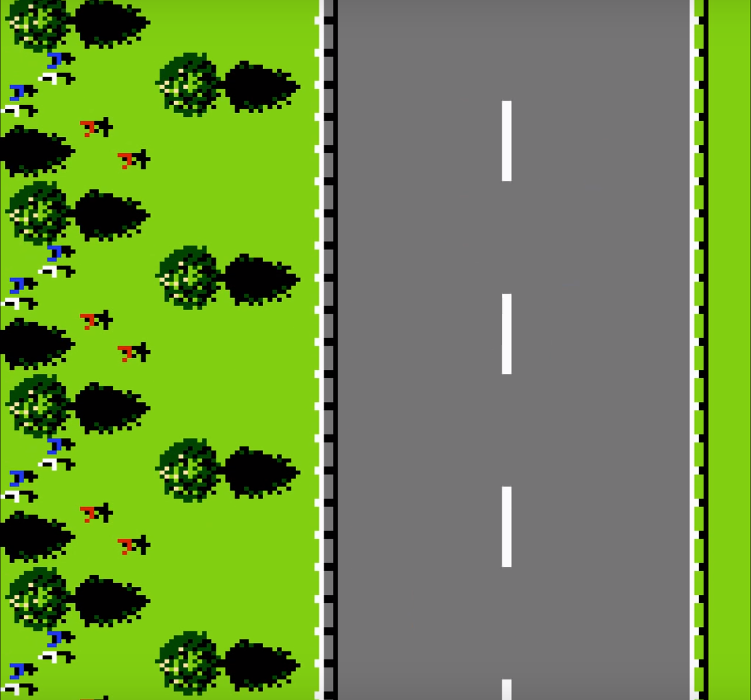
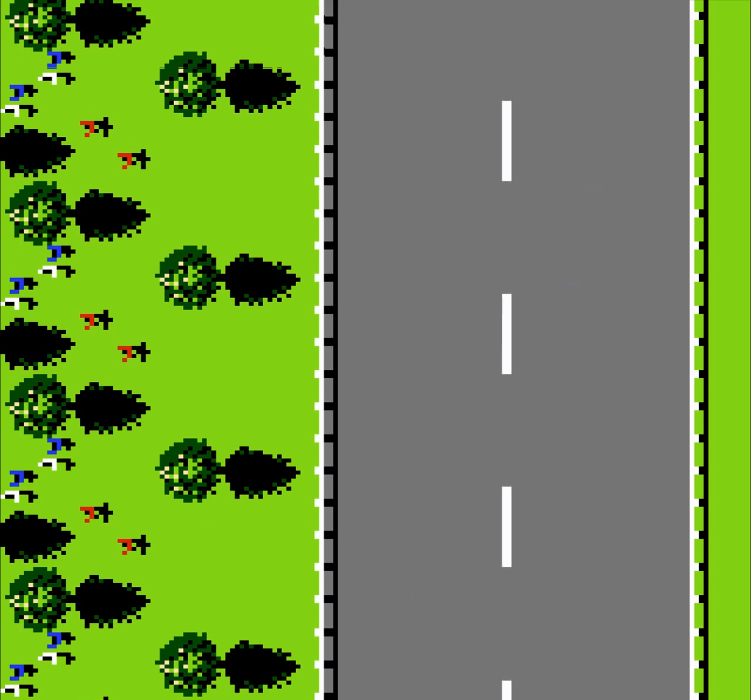
Creacion de hilo y de la ventana del juego

diff --git a/ProyectoFinalApo2/src/interfaz/PanelCarreteraJuego.java b/ProyectoFinalApo2/src/interfaz/PanelCarreteraJuego.java
@@ -15,34 +15,27 @@ public class PanelCarreteraJuego extends JPanel implements KeyListener{
 	private ImageIcon imagenCarretera1;
 	private ImageIcon imagenCarretera2;
 	private ImageIcon imagenAutoJugador;
-	Carretera xCARRETERAX;
-	RoadFigther xMODELO;
-	VentanaPrincipal XPRINCIPAL;
-	VentanaSeleccion XSELECCION;
 	
 	public PanelCarreteraJuego(VentanaJuego v) {
 		ventanaJuego=v;
-		XSELECCION=ventanaJuego.darVentanaSeleccion();
-		System.out.println(ventanaJuego.darVentanaSeleccion());
-		System.out.println(ventanaJuego.darVentanaSeleccion());
-		XPRINCIPAL=ventanaJuego.darVentanaSeleccion().darPrincipal();
-	
-		xMODELO=ventanaJuego.darVentanaSeleccion().darPrincipal().darModeloJuego();
-
-		xCARRETERAX = ventanaJuego.darVentanaSeleccion().darPrincipal().darModeloJuego().darCarreteraSeleccionada();
 		imagenCarretera1 = new ImageIcon(ventanaJuego.darVentanaSeleccion().darPrincipal().darModeloJuego().darCarreteraSeleccionada().darTipo());
 		imagenCarretera2 = new ImageIcon(ventanaJuego.darVentanaSeleccion().darPrincipal().darModeloJuego().darCarreteraSeleccionada().darTipo());
 		imagenAutoJugador = new ImageIcon(ventanaJuego.darVentanaSeleccion().darPrincipal().darModeloJuego().darCarreteraSeleccionada().darAutomovilSeleccionado().darImagen());
 	}
 	
 	public void paintComponent(Graphics g) {
-		int pos_Y_image1=ventanaJuego.darVentanaSeleccion().darPrincipal().darModeloJuego().darCarreteraSeleccionada().darPosYImagen1();
-		int pos_Y_image2=ventanaJuego.darVentanaSeleccion().darPrincipal().darModeloJuego().darCarreteraSeleccionada().darPosYImagen2();
+		int pos_Y_image1 = ventanaJuego.darVentanaSeleccion().darPrincipal().darModeloJuego().darCarreteraSeleccionada().darPosYImagen1();
+		int pos_Y_image2 = ventanaJuego.darVentanaSeleccion().darPrincipal().darModeloJuego().darCarreteraSeleccionada().darPosYImagen2();
+		int pos_X_automovilJugador = ventanaJuego.darVentanaSeleccion().darPrincipal().darModeloJuego().darCarreteraSeleccionada().darAutomovilSeleccionado().darPosX();
+		int pos_Y_automovilJugador = ventanaJuego.darVentanaSeleccion().darPrincipal().darModeloJuego().darCarreteraSeleccionada().darAutomovilSeleccionado().darPosY();
+		
 		ventanaJuego.darVentanaSeleccion().darPrincipal().darModeloJuego().darCarreteraSeleccionada();
 		int pos_X_image=Carretera.POS_X_IMAGEN;
 		
+	
 		g.drawImage(imagenCarretera1.getImage(), pos_X_image, pos_Y_image1,getWidth(), getHeight(), this);
-		g.drawImage(imagenCarretera1.getImage(), pos_X_image, pos_Y_image2,getWidth(), getHeight(), this);
+		g.drawImage(imagenCarretera2.getImage(), pos_X_image, pos_Y_image2,getWidth(), getHeight(), this);
+		g.drawImage(imagenAutoJugador.getImage(), pos_X_automovilJugador, pos_Y_automovilJugador,40,50, this);
 		
 	}
 

diff --git a/ProyectoFinalApo2/src/interfaz/VentanaJuego.java b/ProyectoFinalApo2/src/interfaz/VentanaJuego.java
@@ -5,17 +5,21 @@ import java.awt.Color;
 
 import javax.swing.JFrame;
 
+import hilos.HiloCarretera;
+
 public class VentanaJuego extends JFrame{
+	
 	private VentanaSeleccion ventanaSeleccion;
 	private PanelCarreteraJuego panelCarreteraJuego;
 	private PanelInformacionJuego paneInformacionJuego;
+	private HiloCarretera hiloCarretera;
 	
 	public VentanaJuego(VentanaSeleccion v) {
-		panelCarreteraJuego = new PanelCarreteraJuego(this);
-		paneInformacionJuego = new PanelInformacionJuego();
-		
 		
 		ventanaSeleccion=v;
+		hiloCarretera=new HiloCarretera(this,ventanaSeleccion.darPrincipal().darModeloJuego());
+		
+		
 		this.setSize(750,550);
 		this.setTitle("Juego");
 		this.setVisible(true);
@@ -23,12 +27,19 @@ public class VentanaJuego extends JFrame{
 		this.setBackground(Color.BLACK);
 		this.setDefaultCloseOperation(this.EXIT_ON_CLOSE);
 		this.setResizable(false);
-		
-		this.add(paneInformacionJuego, BorderLayout.WEST);
+		panelCarreteraJuego = new PanelCarreteraJuego(this);
+		paneInformacionJuego = new PanelInformacionJuego();
+		this.add(paneInformacionJuego, BorderLayout.EAST);
 		this.add(panelCarreteraJuego,BorderLayout.CENTER);
 		
+		hiloCarretera.start();
+		
+		
 	}
-
+	public void refrescar() {
+		panelCarreteraJuego.repaint();
+		
+	}
 	public VentanaSeleccion darVentanaSeleccion() {
 		return ventanaSeleccion;
 	}

diff --git a/ProyectoFinalApo2/src/interfaz/PanelCarros.java b/ProyectoFinalApo2/src/interfaz/PanelCarros.java
@@ -46,19 +46,19 @@ public class PanelCarros extends JPanel implements ActionListener{
 		
 		carro1= new JLabel();
 		ImageIcon img1= new ImageIcon("./imagenes/carro_1.png");
-		Image img1_dimensionada= img1.getImage().getScaledInstance(150, 200, Image.SCALE_SMOOTH);
+		Image img1_dimensionada= img1.getImage().getScaledInstance(130, 150, Image.SCALE_SMOOTH);
 		img1.setImage(img1_dimensionada);
 		carro1.setIcon(img1);
 	
 		carro2= new JLabel();
 		ImageIcon img2= new ImageIcon("./imagenes/carro_2.png");
-		Image img2_dimensionada= img2.getImage().getScaledInstance(150, 200, Image.SCALE_SMOOTH);
+		Image img2_dimensionada= img2.getImage().getScaledInstance(130, 150, Image.SCALE_SMOOTH);
 		img2.setImage(img2_dimensionada);
 		carro2.setIcon(img2);
 		
 		carro3= new JLabel();
 		ImageIcon img3= new ImageIcon("./imagenes/carro_3.png");
-		Image img3_dimensionada= img3.getImage().getScaledInstance(150, 200, Image.SCALE_SMOOTH);
+		Image img3_dimensionada= img3.getImage().getScaledInstance(130, 150, Image.SCALE_SMOOTH);
 		img3.setImage(img3_dimensionada);
 		carro3.setIcon(img3);
 		

diff --git a/ProyectoFinalApo2/src/hilos/HiloCarretera.java b/ProyectoFinalApo2/src/hilos/HiloCarretera.java
@@ -1,0 +1,31 @@
+package hilos;
+
+import interfaz.VentanaJuego;
+import interfaz.VentanaPrincipal;
+import modelo.RoadFigther;
+
+public class HiloCarretera extends Thread {
+	
+	private VentanaJuego ventana;
+	private RoadFigther modelo;
+	
+	public HiloCarretera(VentanaJuego pVentana,RoadFigther pModelo) {
+		ventana=pVentana;
+		modelo=pModelo;
+	}
+	
+	public void run() {
+		while(true/*modelo.darCarreteraSeleccionada().Avanza()*/) {
+			modelo.darCarreteraSeleccionada().moverImagen1();
+			modelo.darCarreteraSeleccionada().moverImagen2();
+			ventana.refrescar();
+			
+			try {
+				this.sleep(0,001);
+			} catch (InterruptedException e) {
+				// TODO Auto-generated catch block
+				e.printStackTrace();
+			}
+		}
+	}
+}

diff --git a/ProyectoFinalApo2/src/interfaz/PanelInformacionJuego.java b/ProyectoFinalApo2/src/interfaz/PanelInformacionJuego.java
@@ -1,7 +1,28 @@
 package interfaz;
 
+import java.awt.BorderLayout;
+import java.awt.Color;
+import java.awt.Dimension;
+import java.awt.Graphics;
+
+import javax.swing.DefaultListModel;
+import javax.swing.JList;
 import javax.swing.JPanel;
+import javax.swing.JScrollPane;
 
 public class PanelInformacionJuego extends JPanel {
+	public PanelInformacionJuego() {
+		this.setPreferredSize(new Dimension(200,300));
+		//this.setLayout(new BorderLayout());	
+		this.setOpaque(true);
+		this.setBackground(Color.BLACK);
+		this.setForeground(Color.BLACK);
+	
+	}
+	
+	public void paintComponent(Graphics g) {
+		
+	}
+	
 
 }

diff --git a/ProyectoFinalApo2/src/interfaz/PanelBotonesAtras.java b/ProyectoFinalApo2/src/interfaz/PanelBotonesAtras.java
@@ -76,8 +76,9 @@ public class PanelBotonesAtras extends JPanel implements ActionListener{
 			}else if(mapa.equals("")) {
 				JOptionPane.showMessageDialog(this, "Debe elegir un mapa para continuar");
 			}else {
-				ventanaSeleccion.siguiente();
 				ventanaSeleccion.darPrincipal().darModeloJuego().agregarCarretera(auto, mapa);
+				ventanaSeleccion.siguiente();
+				
 				
 			}
 			

diff --git a/ProyectoFinalApo2/src/modelo/AutomovilJugador.java b/ProyectoFinalApo2/src/modelo/AutomovilJugador.java
@@ -8,6 +8,7 @@ public class AutomovilJugador extends Automovil implements IJugador {
 	public static final String AUTOMOVIL_3="imagenes/carro_3.png";
 	public static final int PLACA_AUTO_3=103;
 	
+	
 	public AutomovilJugador(int pPlaca,String pImagen, int pPosX, int pPosY, long pVelocidad) {
 		super(pPlaca, pImagen, pPosX, pPosY, pVelocidad);
 		
